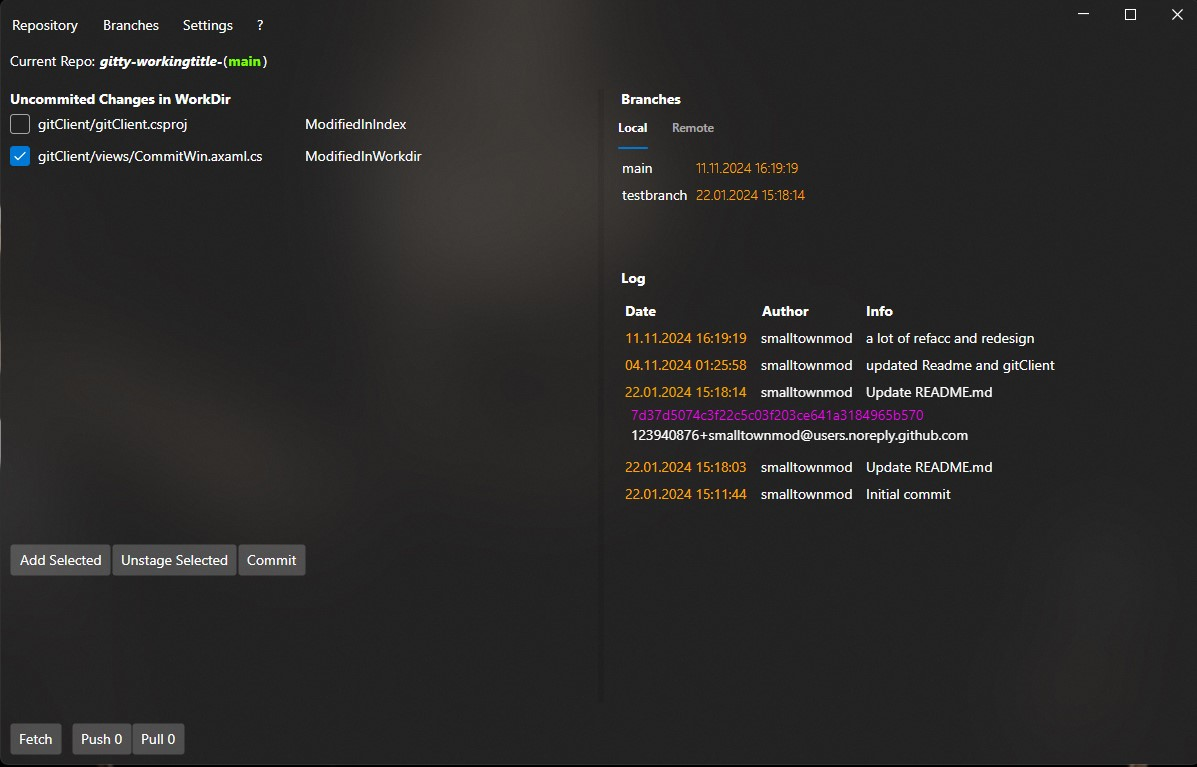
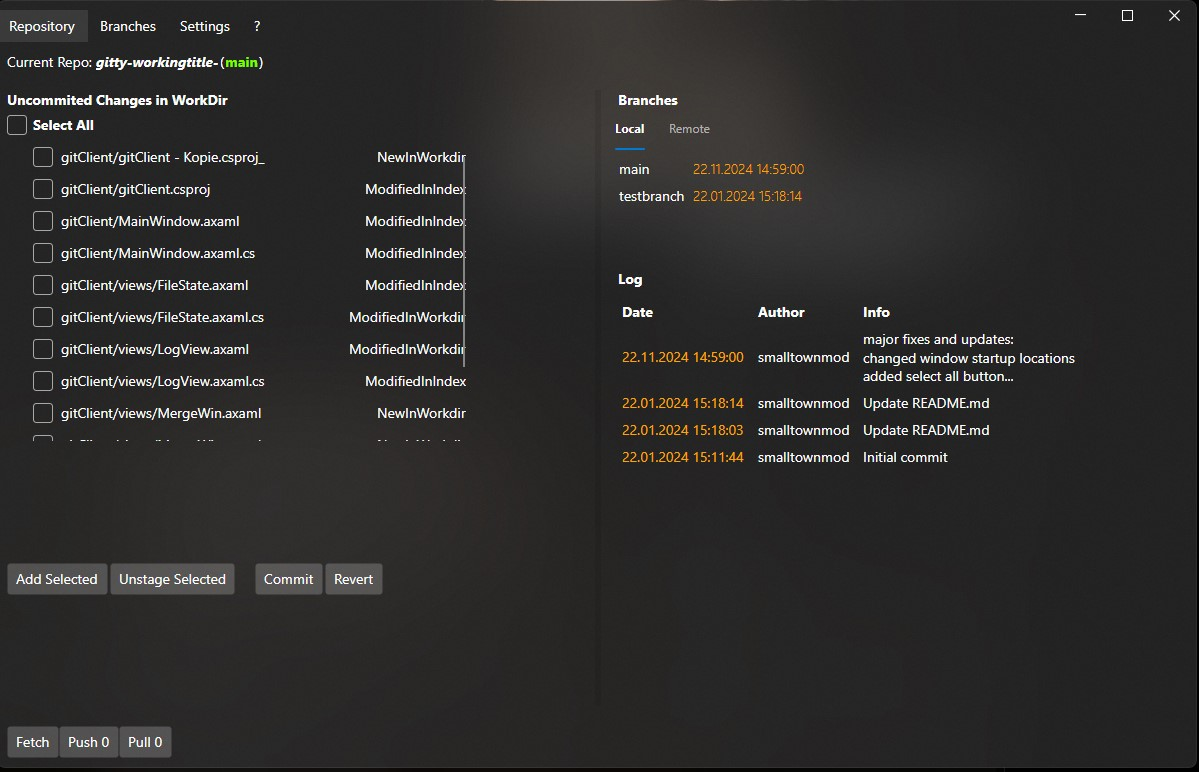
Merge functionality Screenshot updated

diff --git a/gitClient/MainWindow.axaml.cs b/gitClient/MainWindow.axaml.cs
@@ -4,7 +4,6 @@ using LibGit2Sharp;
 using System;
 using System.Linq;
 using System.IO;
-using System.Text.RegularExpressions;
 using Avalonia.Threading;
 using Avalonia.Interactivity;
 using static MsBox.Avalonia.MessageBoxManager;
@@ -23,36 +22,37 @@ namespace gitClient {
       // Repo = null;
       Oldpath = Directory.GetCurrentDirectory();
       InitializeComponent();
-      if (File.Exists("lastpath")) {
-        var last = File.ReadAllText("lastpath");
+      if (File.Exists(".lastpath")) {
+        var last = File.ReadAllText(".lastpath");
         try {
           RefreshRepos(last);
-          systemWatch(last);
+          SystemWatch(last);
           if (Repo != null)
             FetchAll(Repo);
         }
         catch (Exception ex) {
-          GetMessageBoxStandard("error", ex.Message, ButtonEnum.Ok, MsBox.Avalonia.Enums.Icon.Error,
+          GetMessageBoxStandard("Error!", ex.Message, ButtonEnum.Ok, MsBox.Avalonia.Enums.Icon.Error,
             WindowStartupLocation.CenterOwner).ShowWindowDialogAsync(this);
         }
       }
 
       SetTimer();
-      Watcher.Created += onChange;
-      Watcher.Changed += onChange;
-      Watcher.Deleted += onChange;
-      Watcher.Renamed += onChange;
+      Watcher.Created += OnChange;
+      Watcher.Changed += OnChange;
+      Watcher.Deleted += OnChange;
+      Watcher.Renamed += OnChange;
     }
 
     public void RefreshRepos(string path) {
       Repo = new Repository(path);
       CurRepo.Text = Path.GetDirectoryName(Repo.Info.WorkingDirectory).Split("\\").Last();
+      CurRepo.Text = CurRepo.Text.Split("/").Last();
       CurBranch.Text = Repo.Branches.Where(b => b.IsCurrentRepositoryHead).First().FriendlyName;
       ctrlCommitLog.RefreshLog(Repo);
       ctrlBranchLog.RefreshBranches(Repo);
       ctrlFileState.RefreshFileState(Repo);
 
-      if (Repo.Branches.Where(b => b.IsCurrentRepositoryHead).First().IsTracking == true) {
+      if (Repo.Branches.Where(b => b.IsCurrentRepositoryHead).First().IsTracking) {
         //FetchAll(Repo);
         CtrlBtnPush.Content =
           $"Push {Repo.Branches.Where(b => b.IsCurrentRepositoryHead && b.IsTracking).First().TrackingDetails.AheadBy}";
@@ -61,26 +61,25 @@ namespace gitClient {
       }
 
       else {
-        CtrlBtnPush.Content = $"Push";
-        CtrlBtnPull.Content = $"Pull";
+        CtrlBtnPush.Content = "Push";
+        CtrlBtnPull.Content = "Pull";
       }
     }
 
     private async void BtnOpenRepo_Click(object? sender, RoutedEventArgs ev) {
       // var result = await new OpenFolderDialog().ShowAsync((Window)this.GetVisualRoot());
-      var tl = TopLevel.GetTopLevel(this);
-      var result = await tl.StorageProvider.OpenFolderPickerAsync(new FolderPickerOpenOptions {
+      var result = await GetTopLevel(this).StorageProvider.OpenFolderPickerAsync(new FolderPickerOpenOptions {
         Title = "Open Repository",
       });
       try {
-        var res = result.FirstOrDefault().TryGetLocalPath().ToString();
+        var res = result.FirstOrDefault().TryGetLocalPath();
         RefreshRepos(res ?? "");
-        systemWatch(res ?? "");
+        SystemWatch(res ?? "");
         UiState(res ?? "");
         FetchAll(Repo);
       }
       catch (Exception e) {
-        GetMessageBoxStandard("Error", e.Message, ButtonEnum.Ok, MsBox.Avalonia.Enums.Icon.Error,
+        _ = GetMessageBoxStandard("Error!", e.Message, ButtonEnum.Ok, MsBox.Avalonia.Enums.Icon.Error,
           WindowStartupLocation.CenterOwner).ShowWindowDialogAsync(this);
       }
     }
@@ -98,7 +97,7 @@ namespace gitClient {
         var author = new Signature("gitorio", "git@rio", DateTime.Now);
         Repo.Commit("Repo Created with .gitignore", author, author);
         RefreshRepos(result ?? "");
-        systemWatch(result ?? "");
+        SystemWatch(result ?? "");
         UiState(result ?? "");
       }
       catch (Exception ex) {
@@ -111,7 +110,7 @@ namespace gitClient {
       try {
         if (Repo.Branches.Where(b => b.IsCurrentRepositoryHead).First().IsTracking) FetchAll(Repo);
         RefreshRepos(Repo.Info.WorkingDirectory);
-        systemWatch(Repo.Info.WorkingDirectory);
+        SystemWatch(Repo.Info.WorkingDirectory);
       }
       catch (Exception ex) {
         GetMessageBoxStandard("Error!", ex.Message, ButtonEnum.Ok, MsBox.Avalonia.Enums.Icon.Error,
@@ -130,11 +129,11 @@ namespace gitClient {
       about.ShowDialog(this);
     }
 
-    public void onChange(object sender, FileSystemEventArgs e) {
+    public void OnChange(object sender, FileSystemEventArgs e) {
       Dispatcher.UIThread.InvokeAsync(() => { RefreshRepos(Repo.Info.WorkingDirectory); });
     }
 
-    private void systemWatch(string path) {
+    private void SystemWatch(string path) {
       Watcher.Path = path;
       Watcher.IncludeSubdirectories = true;
       Watcher.EnableRaisingEvents = true;
@@ -195,7 +194,7 @@ namespace gitClient {
           WindowStartupLocation.CenterOwner).ShowWindowDialogAsync(this);
       }
 
-      Directory.SetCurrentDirectory(Oldpath);
+      if (Oldpath != null) Directory.SetCurrentDirectory(Oldpath);
     }
 
     private void Btn_Pull(object sender, RoutedEventArgs e) {
@@ -209,7 +208,7 @@ namespace gitClient {
           WindowStartupLocation.CenterOwner).ShowWindowDialogAsync(this);
       }
 
-      Directory.SetCurrentDirectory(Oldpath);
+      if (Oldpath != null) Directory.SetCurrentDirectory(Oldpath);
     }
 
     private void BtnCreateBranchFromRem(object sender, RoutedEventArgs e) {
@@ -218,11 +217,11 @@ namespace gitClient {
     }
 
     public static void UiState(string path) {
-      Directory.SetCurrentDirectory(Oldpath);
-      File.WriteAllText("lastpath", path.Trim());
+      if (Oldpath != null) Directory.SetCurrentDirectory(Oldpath);
+      File.WriteAllText(".lastpath", path.Trim());
     }
 
-    public static void FetchAll(Repository r) {
+    public static void FetchAll(Repository? r) {
       if (!r.Branches.Where(b => b.IsCurrentRepositoryHead).First().IsTracking) return;
 
       try {
@@ -230,21 +229,27 @@ namespace gitClient {
         ProcInvoker.Run("git", " fetch --all");
       }
       catch (Exception ex) {
-        //GetMessageBoxStandard("error", ex.Message).ShowAsync();
+        // ignored
       }
 
-      Directory.SetCurrentDirectory(Oldpath);
+      if (Oldpath != null) Directory.SetCurrentDirectory(Oldpath);
     }
 
-    private static void timedEvent(Object source, ElapsedEventArgs e) {
+    private static void TimedEvent(Object source, ElapsedEventArgs e) {
       FetchAll(Repo);
     }
 
     private static void SetTimer() {
       var timer = new Timer(600000);
-      timer.Elapsed += timedEvent;
+      timer.Elapsed += TimedEvent;
       timer.AutoReset = true;
       timer.Enabled = true;
+    }
+
+    private void BtnMergeBranch(object? sender, RoutedEventArgs e) {
+      // throw new NotImplementedException();
+      MergeWin win = new();
+      win.ShowDialog(this);
     }
   }
 }

diff --git a/gitClient/views/MergeWin.axaml.cs b/gitClient/views/MergeWin.axaml.cs
@@ -1,0 +1,44 @@
+using System;
+using System.Diagnostics;
+using System.IO;
+using System.Linq;
+using Avalonia;
+using Avalonia.Controls;
+using Avalonia.Interactivity;
+using Avalonia.Markup.Xaml;
+using gitClient.model;
+using LibGit2Sharp;
+
+namespace gitClient.views;
+
+public partial class MergeWin : Window {
+  public MergeWin() {
+    InitializeComponent();
+    MergeBlock.Text =
+      $"Merge selected branch into {MainWindow.Repo.Branches.Where(b => b.IsCurrentRepositoryHead).First().FriendlyName}";
+    try {
+      ComBranchList.ItemsSource =
+        MainWindow.Repo.Branches.Where(b => !b.IsCurrentRepositoryHead && !b.IsRemote).ToList();
+      ComBranchList.SelectedIndex = 0;
+    }
+    catch { }
+  }
+
+  private void BtnMerge(object? sender, RoutedEventArgs e) {
+    // throw new System.NotImplementedException();
+    try {
+      Directory.SetCurrentDirectory(MainWindow.Repo.Info.WorkingDirectory);
+      var branchname = ComBranchList.SelectedItem.ToString();
+      var branch = MainWindow.Repo.Branches[branchname].FriendlyName;
+      ProcInvoker.Run("git", $" merge {branch} --no-commit");
+      MainWindow.FetchAll(MainWindow.Repo);
+      Directory.SetCurrentDirectory(MainWindow.Oldpath);
+      Close();
+    }
+    catch { }
+  }
+
+  private void BtnCancel(object? sender, RoutedEventArgs e) {
+    Close();
+  }
+}

diff --git a/gitClient/views/RepoCloneWin.axaml.cs b/gitClient/views/RepoCloneWin.axaml.cs
@@ -19,7 +19,7 @@ namespace gitClient.views {
         MainWindow.Repo = new(ClonePath.Text);
         MainWindow.Watcher.Path = MainWindow.Repo.Info.WorkingDirectory;
         MainWindow.FetchAll(MainWindow.Repo);
-        MainWindow.UiState(ClonePath.Text);
+        if (ClonePath.Text != null) MainWindow.UiState(ClonePath.Text);
       }
       catch (Exception ex) {
         GetMessageBoxStandard("Error!", ex.Message, ButtonEnum.Ok, MsBox.Avalonia.Enums.Icon.Error,
@@ -35,11 +35,12 @@ namespace gitClient.views {
     }
 
     private async void Browse_OnClick(object? sender, RoutedEventArgs e) {
-      var res = await GetTopLevel(this).StorageProvider.OpenFolderPickerAsync(new FolderPickerOpenOptions());
+      var res = await GetTopLevel(this)!.StorageProvider.OpenFolderPickerAsync(new FolderPickerOpenOptions());
       try {
         ClonePath.Text = res.First().TryGetLocalPath() ?? string.Empty;
       }
       catch (Exception ) {
+        //nur damit es nicht abraucht
       }
     }
   }

diff --git a/gitClient/views/UserSettingWin.axaml.cs b/gitClient/views/UserSettingWin.axaml.cs
@@ -17,9 +17,9 @@ namespace gitClient.views {
 		}
 		public void FirstOpen(Repository r) {
 			if (r != null) {
-				Signature Autor = r.Config.BuildSignature(System.DateTimeOffset.Now);
-				UsrNamBox.Text = Autor.Name;
-				UsrMailBox.Text = Autor.Email;	
+				Signature autor = r.Config.BuildSignature(System.DateTimeOffset.Now);
+				UsrNamBox.Text = autor.Name;
+				UsrMailBox.Text = autor.Email;	
 			}
 		}
 	}

diff --git a/gitClient/views/LogView.axaml.cs b/gitClient/views/LogView.axaml.cs
@@ -4,7 +4,7 @@ using System.Linq;
 
 namespace gitClient.views {
 
-  public record CommitLog(System.DateTime Date, string Author, string Message, string Mail, string ID);
+  public record CommitLog(System.DateTime Date, string Author, string Message, string Mail, string Id);
 
   public partial class LogView : UserControl {
     public LogView() {

diff --git a/gitClient/views/FileState.axaml.cs b/gitClient/views/FileState.axaml.cs
@@ -45,7 +45,7 @@ namespace gitClient.views {
 
     private void Commit_OnClick(object? sender, RoutedEventArgs e) {
       var comwin = new CommitWin();
-      comwin.ShowDialog(VisualRoot as Window);
+      comwin.ShowDialog((VisualRoot as Window)!);
     }
 
     private void Supercheck_change(object? sender, RoutedEventArgs e) {

diff --git a/README.md b/README.md
@@ -15,7 +15,13 @@
 
  ![screenshot](/./screenshot.jpg)
 
+ ## 28.11.2024
+
+ - Merge functionality added
+ - updated screenshot
+
 ## TODOs
 
 - Colour Coding the State of uncommited files
 - Design an Icon
+
